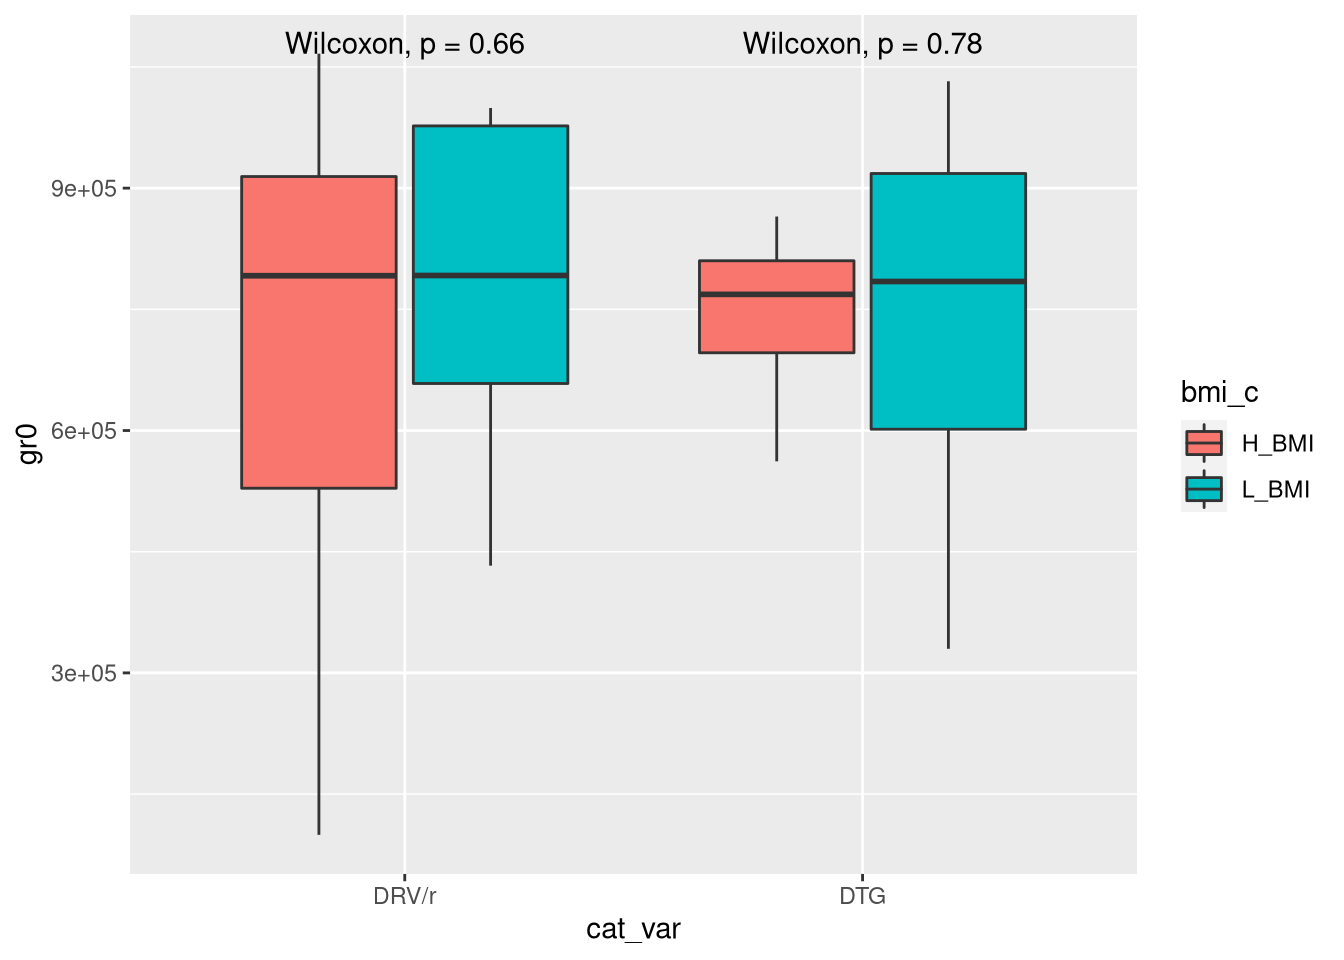
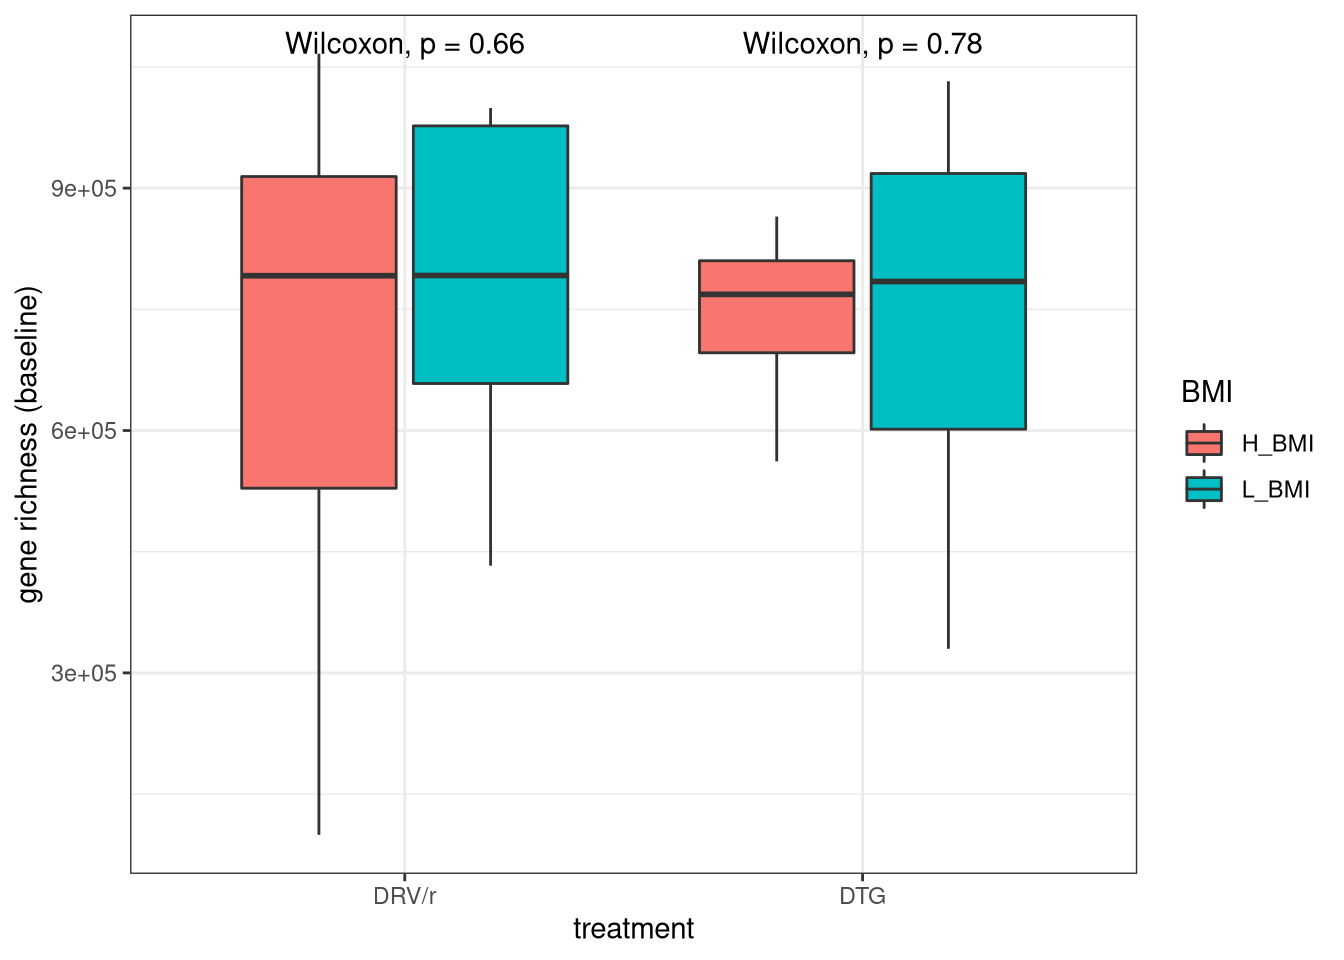
Added richness vs stratification by BMI_group

Changed region(s): [[0.0, 0.2812, 0.0312, 0.625], [0.875, 0.375, 0.9375, 0.4375], [0.4375, 0.9375, 0.5, 1.0]]

diff --git a/docs/311_GR_vs_BMI.html b/docs/311_GR_vs_BMI.html
@@ -345,7 +345,7 @@ $(document).ready(function () {
 <div class="tab-content">
 <div id="summary" class="tab-pane fade in active">
 <p>
-<strong>Last updated:</strong> 2023-03-10
+<strong>Last updated:</strong> 2023-03-13
 </p>
 <p>
 <strong>Checks:</strong> <span class="glyphicon glyphicon-ok text-success" aria-hidden="true"></span> 6 <span class="glyphicon glyphicon-exclamation-sign text-danger" aria-hidden="true"></span> 1
@@ -436,16 +436,16 @@ This reproducible <a href="https://rmarkdown.rstudio.com">R Markdown</a> analysi
 <div class="panel panel-default">
 <div class="panel-heading">
 <p class="panel-title">
-<a data-toggle="collapse" data-parent="#workflowr-checks" href="#strongRepositoryversionstrongahrefhttpsgithubcomMicrobialGenomicsadvanz4tree40fda18774f1450d6a209987f551e8653f7ca40atargetblank40fda18a"> <span class="glyphicon glyphicon-ok text-success" aria-hidden="true"></span> <strong>Repository version:</strong> <a href="https://github.com/MicrobialGenomics/advanz4/tree/40fda18774f1450d6a209987f551e8653f7ca40a" target="_blank">40fda18</a> </a>
+<a data-toggle="collapse" data-parent="#workflowr-checks" href="#strongRepositoryversionstrongahrefhttpsgithubcomMicrobialGenomicsadvanz4tree13934937790cdaa1d7797b79257775a36849ee2atargetblank1393493a"> <span class="glyphicon glyphicon-ok text-success" aria-hidden="true"></span> <strong>Repository version:</strong> <a href="https://github.com/MicrobialGenomics/advanz4/tree/13934937790cdaa1d7797b79257775a36849ee2a" target="_blank">1393493</a> </a>
 </p>
 </div>
[2 lines of base64/hex data omitted]
 <div class="panel-body">
 <p>
 Great! You are using Git for version control. Tracking code development and connecting the code version to the results is critical for reproducibility.
 </p>
 <p>
-The results in this page were generated with repository version <a href="https://github.com/MicrobialGenomics/advanz4/tree/40fda18774f1450d6a209987f551e8653f7ca40a" target="_blank">40fda18</a>. See the <em>Past versions</em> tab to see a history of the changes made to the R Markdown and HTML files.
+The results in this page were generated with repository version <a href="https://github.com/MicrobialGenomics/advanz4/tree/13934937790cdaa1d7797b79257775a36849ee2a" target="_blank">1393493</a>. See the <em>Past versions</em> tab to see a history of the changes made to the R Markdown and HTML files.
 </p>
 <p>
 Note that you need to be careful to ensure that all relevant files for the analysis have been committed to Git prior to generating the results (you can use <code>wflow_publish</code> or <code>wflow_git_commit</code>). workflowr only checks the R Markdown file, but you know if there are other scripts or data files that it depends on. Below is the status of the Git repository when the results were generated:
@@ -502,6 +502,40 @@ Message
 </tr>
 </thead>
 <tbody>
+<tr>
+<td>
+Rmd
+</td>
+<td>
+<a href="https://github.com/MicrobialGenomics/advanz4/blob/13934937790cdaa1d7797b79257775a36849ee2a/analysis/311_GR_vs_BMI.Rmd" target="_blank">1393493</a>
+</td>
+<td>
+cblazquez
+</td>
+<td>
+2023-03-10
+</td>
+<td>
+started stratifcation by BMI
+</td>
+</tr>
+<tr>
+<td>
+html
+</td>
+<td>
+<a href="https://rawcdn.githack.com/MicrobialGenomics/advanz4/13934937790cdaa1d7797b79257775a36849ee2a/docs/311_GR_vs_BMI.html" target="_blank">1393493</a>
+</td>
+<td>
+cblazquez
+</td>
+<td>
+2023-03-10
+</td>
+<td>
+started stratifcation by BMI
+</td>
+</tr>
 <tr>
 <td>
 Rmd
@@ -641,6 +675,43 @@ started analysis n GR vs BMI
 $cat_var$BMI
 $cat_var$BMI$plot</code></pre>
 <p><img src="figure/311_GR_vs_BMI.Rmd/BMI-vs_group-1.png" width="672" style="display: block; margin: auto;" /></p>
+<p>
+<button type="button" class="btn btn-default btn-xs btn-workflowr btn-workflowr-fig" data-toggle="collapse" data-target="#fig-BMI-vs_group-1">
+Past versions of BMI-vs_group-1.png
+</button>
+</p>
+<div id="fig-BMI-vs_group-1" class="collapse">
+<div class="table-responsive">
+<table class="table table-condensed table-hover">
+<thead>
+<tr>
+<th>
+Version
+</th>
+<th>
+Author
+</th>
+<th>
+Date
+</th>
+</tr>
+</thead>
+<tbody>
+<tr>
+<td>
+<a href="https://github.com/MicrobialGenomics/advanz4/blob/13934937790cdaa1d7797b79257775a36849ee2a/docs/figure/311_GR_vs_BMI.Rmd/BMI-vs_group-1.png" target="_blank">1393493</a>
+</td>
+<td>
+cblazquez
+</td>
+<td>
+2023-03-10
+</td>
+</tr>
+</tbody>
+</table>
+</div>
+</div>
 <pre><code>
 $cat_var$BMI$summary
                         estimate      st.err       df       tval            p
@@ -655,6 +726,43 @@ get_comp_boxplots(dat = igc_df, cat_var = &quot;cat_var&quot;, num_var = &quot;B
 
 bmi_test$plot</code></pre>
 <p><img src="figure/311_GR_vs_BMI.Rmd/BMI-vs_group-2.png" width="672" style="display: block; margin: auto;" /></p>
+<p>
+<button type="button" class="btn btn-default btn-xs btn-workflowr btn-workflowr-fig" data-toggle="collapse" data-target="#fig-BMI-vs_group-2">
+Past versions of BMI-vs_group-2.png
+</button>
+</p>
+<div id="fig-BMI-vs_group-2" class="collapse">
+<div class="table-responsive">
+<table class="table table-condensed table-hover">
+<thead>
+<tr>
+<th>
+Version
+</th>
+<th>
+Author
+</th>
+<th>
+Date
+</th>
+</tr>
+</thead>
+<tbody>
+<tr>
+<td>
+<a href="https://github.com/MicrobialGenomics/advanz4/blob/13934937790cdaa1d7797b79257775a36849ee2a/docs/figure/311_GR_vs_BMI.Rmd/BMI-vs_group-2.png" target="_blank">1393493</a>
+</td>
+<td>
+cblazquez
+</td>
+<td>
+2023-03-10
+</td>
+</tr>
+</tbody>
+</table>
+</div>
+</div>
 <pre class="r"><code>bmi_test$test$cat %&gt;% 
   dplyr::select(long_var, contains ( &quot;group&quot;), p.adj.signif) %&gt;% 
   kableExtra::kable(format = &quot;markdown&quot;)</code></pre>
@@ -748,6 +856,17 @@ Date
 </tr>
 </thead>
 <tbody>
+<tr>
+<td>
+<a href="https://github.com/MicrobialGenomics/advanz4/blob/13934937790cdaa1d7797b79257775a36849ee2a/docs/figure/311_GR_vs_BMI.Rmd/basal_dist_df-1.png" target="_blank">1393493</a>
+</td>
+<td>
+cblazquez
+</td>
+<td>
+2023-03-10
+</td>
+</tr>
 <tr>
 <td>
 <a href="https://github.com/MicrobialGenomics/advanz4/blob/ec3949c8abd001aa4c07563476791b0c859c652a/docs/figure/311_GR_vs_BMI.Rmd/basal_dist_df-1.png" target="_blank">ec3949c</a>
@@ -1105,6 +1224,17 @@ Date
 <tbody>
 <tr>
 <td>
+<a href="https://github.com/MicrobialGenomics/advanz4/blob/13934937790cdaa1d7797b79257775a36849ee2a/docs/figure/311_GR_vs_BMI.Rmd/delta_cors-1.png" target="_blank">1393493</a>
+</td>
+<td>
+cblazquez
+</td>
+<td>
+2023-03-10
+</td>
+</tr>
+<tr>
+<td>
 <a href="https://github.com/MicrobialGenomics/advanz4/blob/40fda18774f1450d6a209987f551e8653f7ca40a/docs/figure/311_GR_vs_BMI.Rmd/delta_cors-1.png" target="_blank">40fda18</a>
 </td>
 <td>
@@ -1180,6 +1310,17 @@ Date
 <tbody>
 <tr>
 <td>
+<a href="https://github.com/MicrobialGenomics/advanz4/blob/13934937790cdaa1d7797b79257775a36849ee2a/docs/figure/311_GR_vs_BMI.Rmd/delta_cors-2.png" target="_blank">1393493</a>
+</td>
+<td>
+cblazquez
+</td>
+<td>
+2023-03-10
+</td>
+</tr>
+<tr>
+<td>
 <a href="https://github.com/MicrobialGenomics/advanz4/blob/40fda18774f1450d6a209987f551e8653f7ca40a/docs/figure/311_GR_vs_BMI.Rmd/delta_cors-2.png" target="_blank">40fda18</a>
 </td>
 <td>
@@ -1196,7 +1337,7 @@ cblazquez
 </div>
 <div id="stratifying-population-by-bmi" class="section level1">
 <h1>Stratifying population by BMI</h1>
-<p>Now that we saw the increase in gene richness follows a bimodal distribution in each group, it is possible that we didn’t find an effect of gene richness per treatment group due to the confusor effect of BMI. We will split the population between high BMI change (BMI_H) and low BMI increase (BMI_L). The cutting point will be an absolute increase of 2.5 in BMI, as seen earlier in the delta distribution.</p>
+<p>Now that we saw the increase in gene richness follows a bimodal distribution in each group, it is possible that we didn’t find an effect of gene richness per treatment group due to the confusor effect of BMI. We will split the population between high (BMI_H) and low BMI increase (BMI_L). The cutting point will be an absolute increase of 2.5 in BMI, as seen earlier in the delta distribution.</p>
 <pre class="r"><code>delta_bmi_df %&gt;% 
   dplyr::mutate(bmi_c = case_when(
     delta_BMI_abs &gt;= 2.5 ~ &quot;H_BMI&quot;,
@@ -1208,8 +1349,77 @@ cblazquez
   dplyr::filter(!is.na(bmi_c)) %&gt;% 
   ggplot(aes(y = gr0, x = cat_var, fill = bmi_c)) +
   ggpubr::stat_compare_means(method = &quot;wilcox.test&quot;) +
-  geom_boxplot()</code></pre>
+  geom_boxplot() +
+  theme_bw() +
+  labs(x = &quot;treatment&quot;, y = &quot;gene richness (baseline)&quot;, fill = &quot;BMI&quot;)</code></pre>
 <p><img src="figure/311_GR_vs_BMI.Rmd/bmi_stratification-1.png" width="672" style="display: block; margin: auto;" /></p>
+<p>
+<button type="button" class="btn btn-default btn-xs btn-workflowr btn-workflowr-fig" data-toggle="collapse" data-target="#fig-bmi_stratification-1">
+Past versions of bmi_stratification-1.png
+</button>
+</p>
+<div id="fig-bmi_stratification-1" class="collapse">
+<div class="table-responsive">
+<table class="table table-condensed table-hover">
+<thead>
+<tr>
+<th>
+Version
+</th>
+<th>
+Author
+</th>
+<th>
+Date
+</th>
+</tr>
+</thead>
+<tbody>
+<tr>
+<td>
+<a href="https://github.com/MicrobialGenomics/advanz4/blob/13934937790cdaa1d7797b79257775a36849ee2a/docs/figure/311_GR_vs_BMI.Rmd/bmi_stratification-1.png" target="_blank">1393493</a>
+</td>
+<td>
+cblazquez
+</td>
+<td>
+2023-03-10
+</td>
+</tr>
+</tbody>
+</table>
+</div>
+</div>
+<pre class="r"><code>delta_bmi_df %&gt;% 
+  dplyr::mutate(bmi_c = case_when(
+    delta_BMI_abs &gt;= 2.5 ~ &quot;H_BMI&quot;,
+    delta_BMI_abs &lt; 2 ~ &quot;L_BMI&quot;
+  )) %&gt;% 
+  dplyr::filter(!is.na(bmi_c)) %&gt;% 
+  ggplot(aes(y = delta_gr_rel, x = cat_var, fill = bmi_c)) +
+  ggpubr::stat_compare_means(method = &quot;wilcox.test&quot;) +
+  geom_boxplot() +
+  theme_bw() +
+  labs(x = &quot;treatment&quot;, y = &quot;GR increase at week 96 (%)&quot;, fill = &quot;BMI&quot;)</code></pre>
+<p><img src="figure/311_GR_vs_BMI.Rmd/bmi_stratification-2.png" width="672" style="display: block; margin: auto;" /></p>
+<pre class="r"><code>delta_bmi_df %&gt;% 
+  dplyr::mutate(bmi_c = case_when(
+    delta_BMI_abs &gt;= 2.5 ~ &quot;H_BMI&quot;,
+    delta_BMI_abs &lt; 2 ~ &quot;L_BMI&quot;
+  )) %&gt;% 
+  dplyr::select(record_id, bmi_c) %&gt;% 
+  dplyr::rename(link_var = record_id) %&gt;% 
+  dplyr::right_join(igc_df, by = &quot;link_var&quot;) %&gt;% 
+  dplyr::filter(!is.na(bmi_c)) %&gt;% 
+  dplyr::mutate(group_bmi = paste(cat_var, bmi_c, sep = &quot;_&quot;)) %&gt;% 
+  ggplot(aes(y = richness, x = as.factor(long_var), color = group_bmi)) +
+  geom_boxplot(aes(x = as.factor(long_var))) +
+  ggpubr::stat_compare_means(method = &quot;wilcox_test&quot;) +
+  # geom_point() +
+  geom_smooth(method = &quot;glm&quot;, alpha = 0) +
+  theme_bw() +
+  labs(x = &quot;week&quot;) </code></pre>
+<p><img src="figure/311_GR_vs_BMI.Rmd/bmi_stratification-3.png" width="672" style="display: block; margin: auto;" /></p>
 <br>
 <p>
 <button type="button" class="btn btn-default btn-workflowr btn-workflowr-sessioninfo" data-toggle="collapse" data-target="#workflowr-sessioninfo" style="display: block;">
